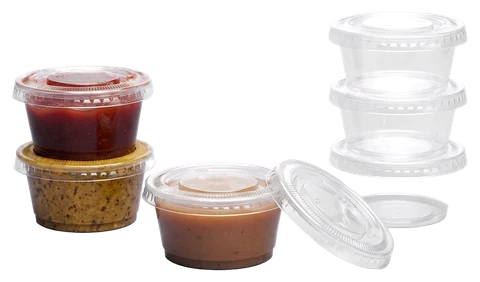
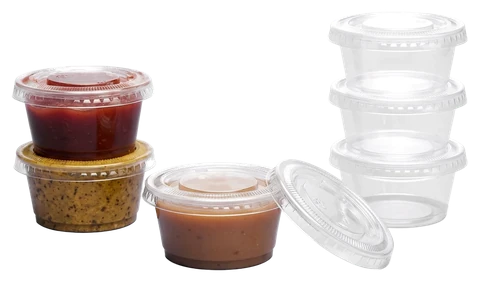
Portion cups photo: put back the bottom cup of the clear stack
The cutout dropped the clear walls of the third cup in the right-hand
stack, leaving its lid floating over its base. The walls are rebuilt
from the middle cup's, tapered to meet the base that was still there.
Nothing else in the photo changed. PHOTO_VERSION goes to 5 so browsers
fetch the new files.

Claude-Session: https://claude.ai/code/session_01HmfzSQWK6iMwNvET8ns2Rs

Changed region(s): [[0.6875, 0.5957, 0.8438, 0.7092], [0.9062, 0.6241, 0.9688, 0.7092]]

diff --git a/src/components/ProductVisual.tsx b/src/components/ProductVisual.tsx
@@ -23,7 +23,7 @@ export const CARD_PHOTO = "(max-width: 639px) 96px, 230px";
  * /img in next.config.ts). When a photo is replaced under the same name, raise this number: the address
  * changes, so every browser fetches the new file on its next visit.
  */
-export const PHOTO_VERSION = 4;
+export const PHOTO_VERSION = 5;
 
 /** A product photo or drawing on a lilac tile. */
 export function ProductVisual({ image, icon, alt = "", className, priority, sizes = CARD_PHOTO }: Props) {
